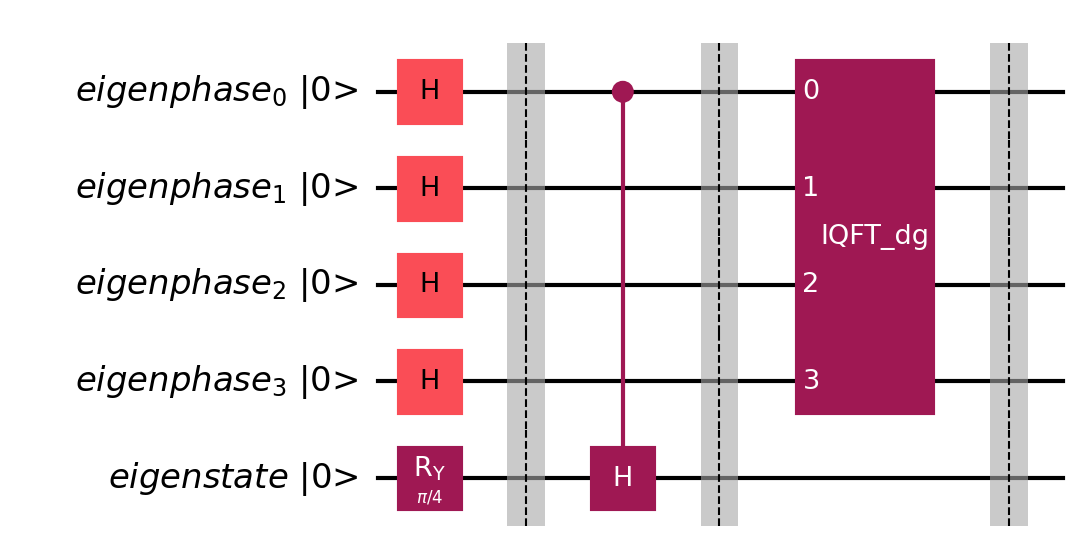
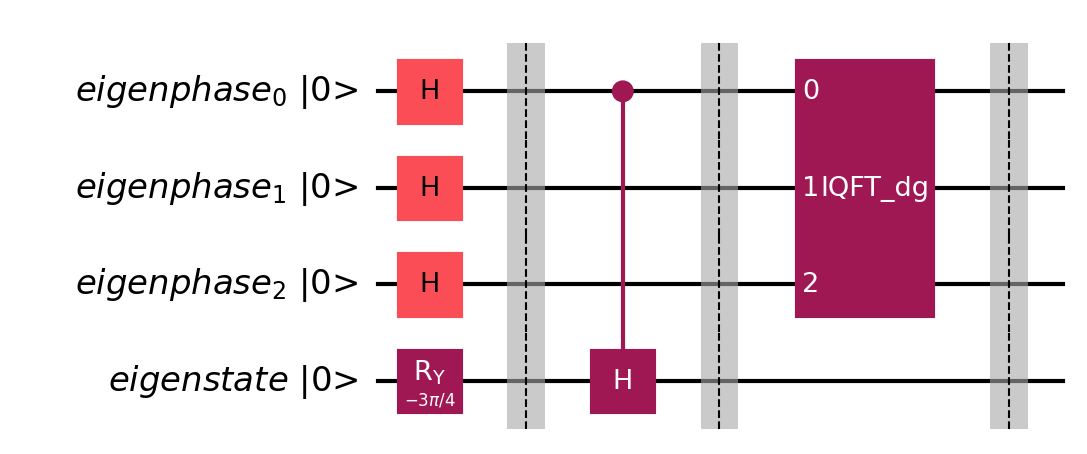
Improve explanation.

diff --git a/phase_estimation.py b/phase_estimation.py
@@ -4,12 +4,12 @@ from qiskit.circuit.library import QFT
 from util.statevector import get_partial_statevector
 
 # Set up quantum registers
-eigenphase = QuantumRegister(4, name="eigenphase")
+eigenphase = QuantumRegister(3, name="eigenphase")
 eigenstate = QuantumRegister(1, name="eigenstate")
 qc = QuantumCircuit(eigenphase, eigenstate)
 
-# Set up eigenstate 
-which_eigenstate = "B"  # Desired signal
+# Set up eigenstate
+which_eigenstate = "A"  # Desired signal
 if which_eigenstate == "A":
     # Eigenstate `sqrt(0.15)|0⟩-sqrt(0.85)|1⟩` of Hadamard gate with corresponding eigenphase 180°
     qc.ry(math.radians(-135), eigenstate)
@@ -35,7 +35,7 @@ backend = BasicAer.get_backend("statevector_simulator")
 job = execute(qc, backend)
 result = job.result()
 
-outputstate = get_partial_statevector(qc, qargs=[4], label="eigenphase")
+outputstate = get_partial_statevector(qc, qargs=[qc.num_qubits - 1], label="eigenphase")
 for i, amp in enumerate(outputstate):
     if abs(amp) > 0.000001:
         prob = abs(amp) * abs(amp)

diff --git a/README.md b/README.md
@@ -80,6 +80,6 @@ black .
 
     Eigenstates and eigenphases correspond to the classical eigenvectors and eigenvalues, respectively.<br>
 
-    Here, we build a phase estimation circuit to compute the eigenphase, given a unitary quantum operation and its eigenstate.<br>
+    We build a phase estimation circuit to compute the eigenphase, given a unitary quantum operation `U` and its eigenstate. Acting a `U` on its eigenstate produces the same eigenstate but with the eigenphase applied to its global phase. These eigenphase rotations are kicked-back into the top `eigenphase` register, creating a frequency modulation. Inverse QFT is applied to decode the frequency present in the top register, and thus find the underlying eigenphase. Relationship between top `eigenphase` register value `R`, eigenphase `θ`, and size of `eigenphase` register `m`, is `θ = R * 360 / 2^m`.<br>
 
     A superposition of eigenstates as an input to the phase estimation primitive results in a superposition of the associated eigenphases in the output. The magnitude for each eigenphase in the output superposition will be precisely the magnitude that its corresponding eigenstate had in the input register.
